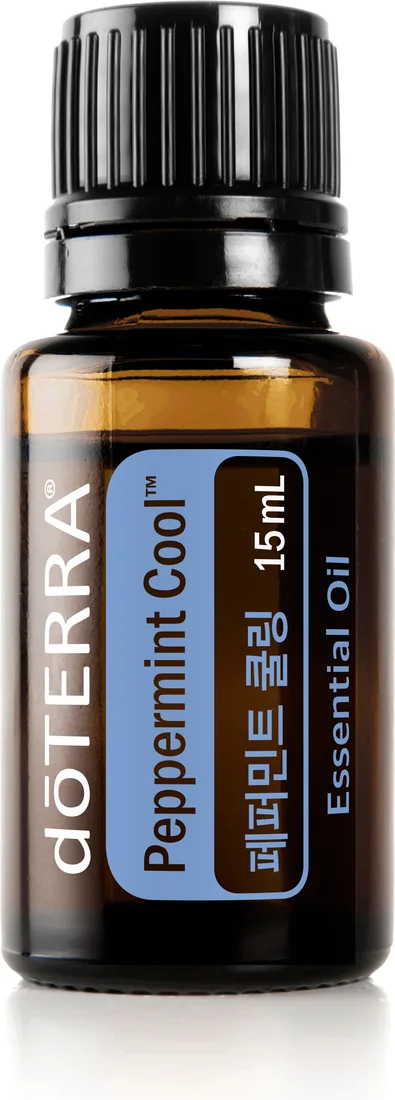
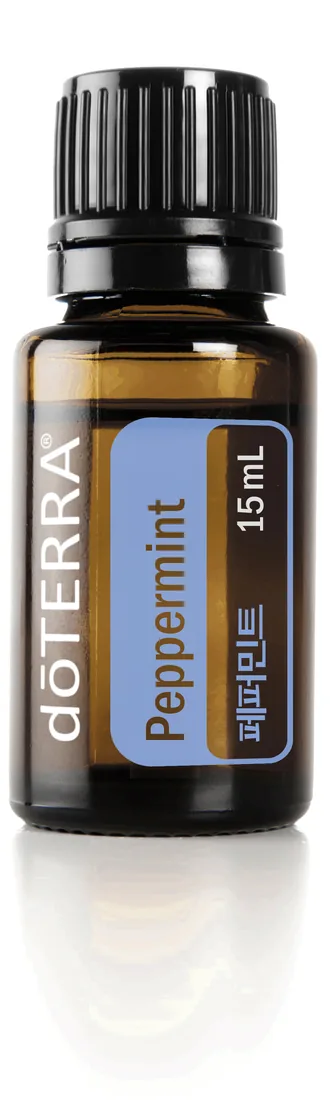
v3.8.2: 오일·제품 탭 '페퍼민트 쿨링' → 도테라 페퍼민트(Peppermint · Mentha piperita) 오일로 교체, 방향제 고지 문구 삭제, 쓰는 법·트리플 루틴 문구 정리, sw.js 캐시 v3.8.2

diff --git a/index.html b/index.html
@@ -772,13 +772,13 @@ main{flex:1;padding:16px 16px calc(100px + env(safe-area-inset-bottom))}
 
       <article class="pcard">
         <div class="pcard-photo">
-          <img src="assets/p-peppermint.webp" alt="도테라 페퍼민트 쿨링 에센셜 오일 15mL" width="395" height="1100" decoding="async">
+          <img src="assets/p-peppermint.webp" alt="도테라 페퍼민트 에센셜 오일 15mL" width="330" height="1100" decoding="async">
         </div>
         <div class="pcard-body">
           <div class="pcard-id">
             <div>
-              <h3 class="pcard-name">페퍼민트 쿨링</h3>
-              <span class="pcard-latin">Peppermint Cool · 15 mL</span>
+              <h3 class="pcard-name">페퍼민트</h3>
+              <span class="pcard-latin">Peppermint · Mentha piperita · 15 mL</span>
             </div>
             <span class="pcard-badge">상쾌 · 집중</span>
           </div>
@@ -786,8 +786,8 @@ main{flex:1;padding:16px 16px calc(100px + env(safe-area-inset-bottom))}
           <div class="chips">
             <span class="chip">상쾌한 호흡</span><span class="chip">집중 리프레시</span><span class="chip">식후 상쾌함</span>
           </div>
-          <div class="pcard-use"><b>쓰는 법</b><span>손바닥에 1방울 향 맡기 · 디퓨저 2~3방울 · 무거운 식사 뒤 손수건에 1방울</span></div>
-          <p class="pcard-warn">국내에서는 방향제(향료)로 등록된 제품입니다(CB22-12-0257). 눈·민감한 부위는 피해 주세요.</p>
+          <div class="pcard-use"><b>쓰는 법</b><span>물·차에 1방울 · 손바닥 1방울 향 맡기 · 디퓨저 2~3방울</span></div>
+          <p class="pcard-warn">눈·민감한 부위는 피해 주세요.</p>
         </div>
       </article>
 
@@ -839,7 +839,7 @@ main{flex:1;padding:16px 16px calc(100px + env(safe-area-inset-bottom))}
         <ol>
           <li><span><b>아침</b> — 포스티엠 15~30mL를 물에 10배 희석해 한 잔.</span></li>
           <li><span><b>식후</b> — 이오 메가 리퀴드 10mL를 스푼으로 한 번.</span></li>
-          <li><span><b>틈틈이</b> — 물 500mL에 레몬 1~2방울, 페퍼민트는 향으로 1방울.</span></li>
+          <li><span><b>틈틈이</b> — 물 500mL에 레몬이나 페퍼민트 1방울.</span></li>
         </ol>
       </div>
 
@@ -3355,7 +3355,7 @@ main{flex:1;padding:16px 16px calc(100px + env(safe-area-inset-bottom))}
       '<input type="file" id="setImportFile" accept="application/json,.json" hidden>' +
       '<p class="field-hint">※ 이미 올린 인증샷은 서버에 남아 함께 인증샷 탭에 계속 보입니다.</p>' +
       '<button class="btn btn-danger-ghost" id="setReset">모든 기록 초기화</button>' +
-      '<p class="foot">21일 트리플챌린지 · v3.8 (오일·제품 탭 리뉴얼 — 큰 제품 사진·짧은 효능, 페퍼민트 추가, 모닝 리프레쉬 키트 배너 · 앱 초대 링크 공유 · 인증샷 타임스탬프 프레임 안 보정 · 21일+3일 여유 기간 · 21일 완주 팡파레 · 새 기수 전체 리셋 연동 · 함께 인증샷 댓글 · 카카오 로그인 · 실시간 채팅)<br>기록은 카카오 로그인 시 계정에, 로그인 전에는 내 폰에 저장됩니다.<br>제작자 <a class="foot-link" href="https://www.instagram.com/erang_coach/" target="_blank" rel="noopener noreferrer" aria-label="제작자 @erang_coach 인스타그램 열기 (새 창)">@erang_coach</a></p>',
+      '<p class="foot">21일 트리플챌린지 · v3.8.2 (오일·제품 탭 리뉴얼 — 큰 제품 사진·짧은 효능, 페퍼민트 오일로 교체, 모닝 리프레쉬 키트 배너 · 앱 초대 링크 공유 · 인증샷 타임스탬프 프레임 안 보정 · 21일+3일 여유 기간 · 21일 완주 팡파레 · 새 기수 전체 리셋 연동 · 함께 인증샷 댓글 · 카카오 로그인 · 실시간 채팅)<br>기록은 카카오 로그인 시 계정에, 로그인 전에는 내 폰에 저장됩니다.<br>제작자 <a class="foot-link" href="https://www.instagram.com/erang_coach/" target="_blank" rel="noopener noreferrer" aria-label="제작자 @erang_coach 인스타그램 열기 (새 창)">@erang_coach</a></p>',
       function(card){
         var kb = $('#setKakaoLogin', card);
         if(kb) kb.addEventListener('click', function(){

diff --git a/sw.js b/sw.js
@@ -3,7 +3,7 @@
    - 네트워크 우선: 항상 최신 앱을 먼저 받아오고, 끊겼을 때만 캐시로 대체
    - 관리자 페이지(admin.html)는 캐시하지 않습니다.
 */
-const CACHE = 'triple21-v3.8.1';
+const CACHE = 'triple21-v3.8.2';
 const ASSETS = [
   './',
   './index.html',

diff --git a/README.md b/README.md
@@ -13,7 +13,7 @@
 `오늘 체크` · `21일 달력` · `함께 인증샷` · `채팅` · `오일·제품` 5개 탭이고, 설정(닉네임·시작일·앱 설치 안내·백업·공지)은 상단 톱니바퀴 시트에 있습니다.
 
 - `채팅`: 회원끼리 실시간 응원·소통. 닉네임 미설정 시 입력을 막고 설정을 안내하며, 빈 메시지·공백은 전송되지 않습니다.
-- `오일·제품`: CPTG® 아로마오일 소개 + 제품 카드 4종(레몬·페퍼민트 쿨링·이오 메가 리퀴드·포스티엠 카시스) — 큰 공식 제품 사진·한 줄 요약·핵심 키워드·쓰는 법, 21일 트리플 루틴, 맨 아래 도테라 **모닝 리프레쉬 키트** 공식 페이지 연결 배너(`assets/kit-morning-refresh.webp`, 새 창), `@erang_coach` 링크.
+- `오일·제품`: CPTG® 아로마오일 소개 + 제품 카드 4종(레몬·페퍼민트·이오 메가 리퀴드·포스티엠 카시스) — 큰 공식 제품 사진·한 줄 요약·핵심 키워드·쓰는 법, 21일 트리플 루틴, 맨 아래 도테라 **모닝 리프레쉬 키트** 공식 페이지 연결 배너(`assets/kit-morning-refresh.webp`, 새 창), `@erang_coach` 링크.
 - 제품 사진은 도테라 공식 고화질 이미지(`media.doterra.com` 제품 이미지)를 `assets/`에 webp로 저장해 두고 씁니다(외부 핫링크 없음).
 
 ## 관리자 페이지 (`admin.html`)
